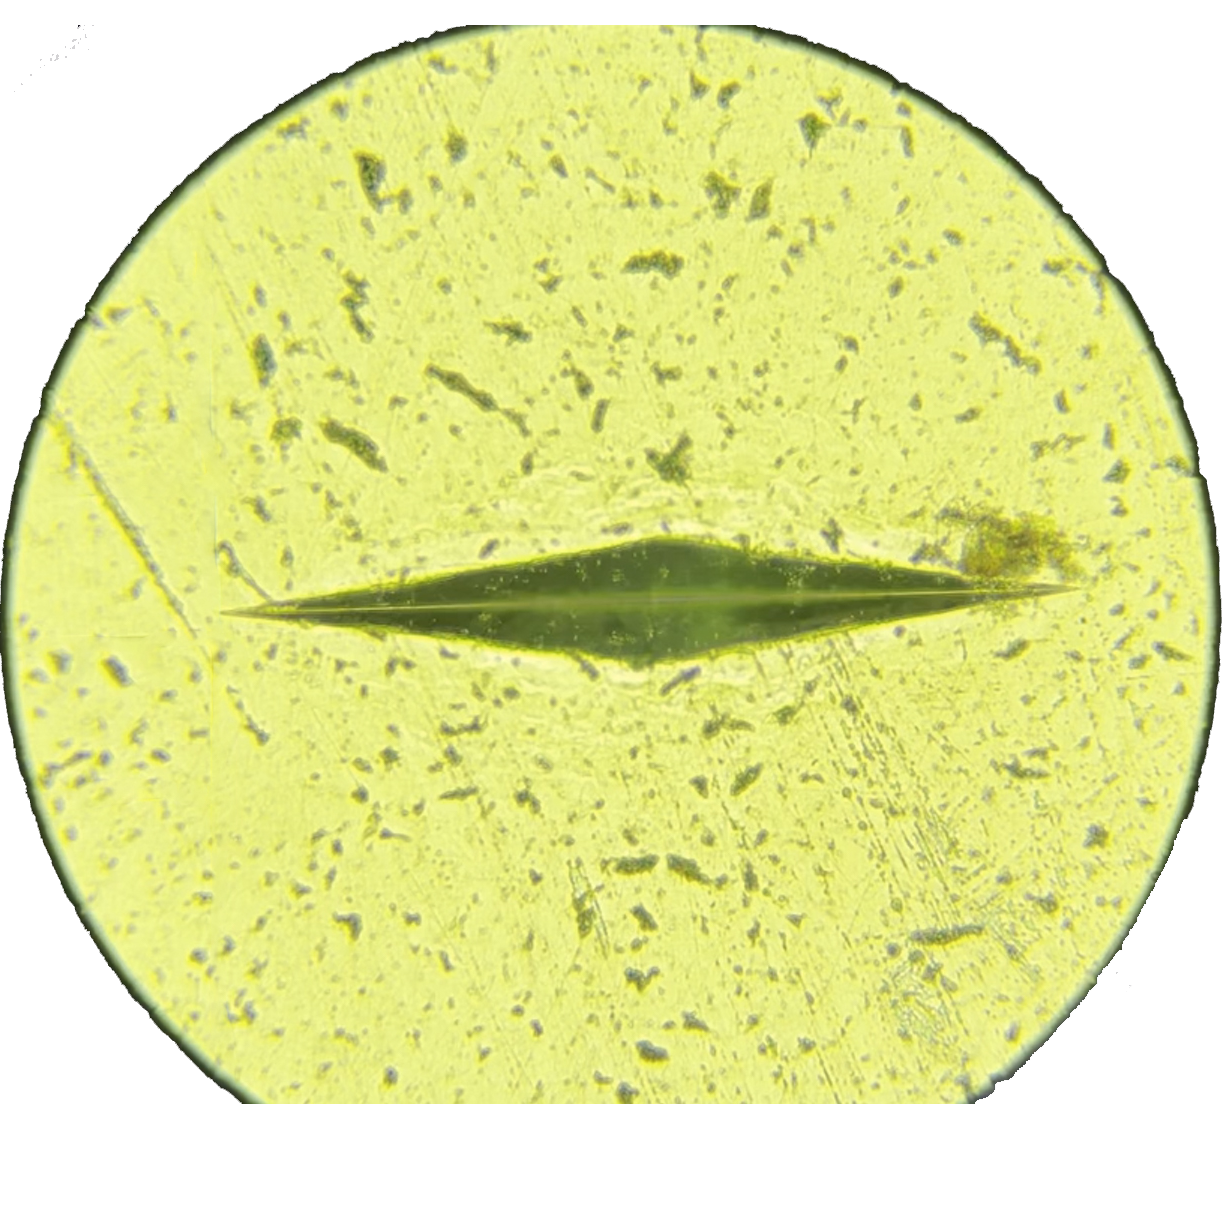
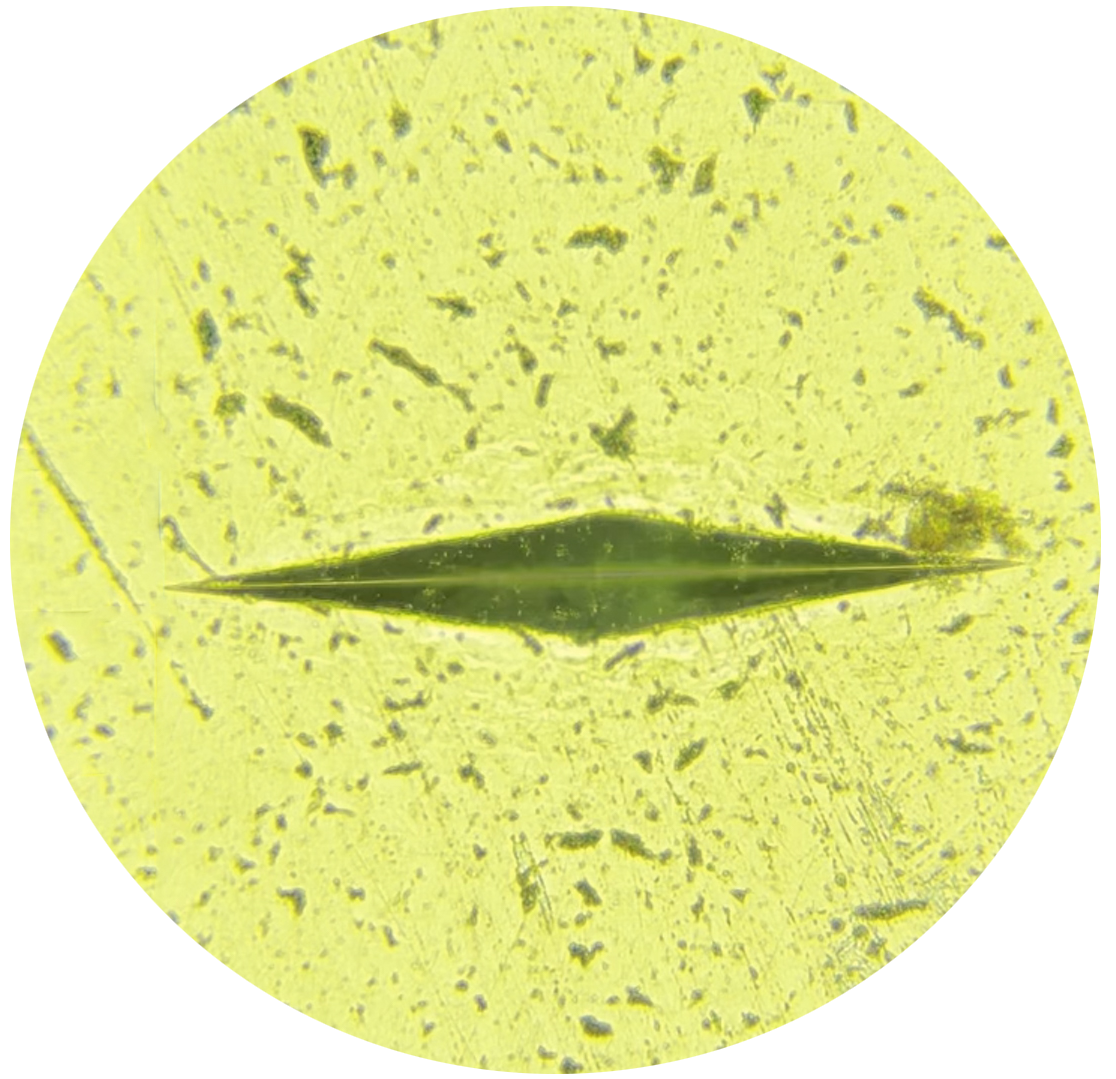
made knoop image fit in lens

diff --git a/js/knoop_hardness_sketch.js b/js/knoop_hardness_sketch.js
@@ -14,7 +14,7 @@ function sketch(p) {
     let vertical = true;
     p.done = false;
 
-    let filarBounds = [-520, -350, 436, 600];
+    let filarBounds = [-560, -380, 370, 660];
 
     let bgHeight;
     let bgWidth;
@@ -127,6 +127,9 @@ function sketch(p) {
         prevMouse = p.mouseIsPressed;
 
         p.displayArrows();
+
+        console.log(baseKnob.theta)
+        console.log(measuringKnob.theta + baseKnob.theta - baseKnob.theta0)
     }
 
     p.displayArrows = function() {
